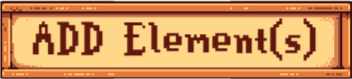
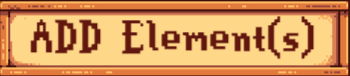
boton add elements bonito

diff --git a/client/stardew-valley/src/app/add-element/add-element.component.html b/client/stardew-valley/src/app/add-element/add-element.component.html
@@ -7,12 +7,12 @@
                 <div class="row mb-3">
                     <div class="col">
                         <input type="file" class="form-control" id="inputJson" name="json" (change)="fileUploaded($event)">
-                        <div *ngIf="fileContent && !wrongFormat">
+                        <div *ngIf="fileContent && !wrongFormat" style="background-color: rgba(255, 255, 255, 0.441);">
                             <pre>{{ fileContent | json }}</pre>
-                            
                         </div>
                     </div>
                 </div>
+                <button style="padding: 0;"><img style="height: 50px;" src="../../assets/add-element-s.png"/></button>
             </div>
         </div>
         <button *ngIf="fileContent && !wrongFormat && !isNotComplete" type="submit" class="btn btn-primary" style="background-color: rgb(231, 143, 172); border-color: rgb(231, 143, 172);">Add element(s)</button>

diff --git a/client/stardew-valley/src/app/add-element/add-element.component.css b/client/stardew-valley/src/app/add-element/add-element.component.css
@@ -14,11 +14,3 @@ h2{
 #title{
     font-size: 10ch;
 }
-
-#btn-add-element{
-    background-image: url("../../assets/add-element-s.png"); 
-    background-size: contain;
-    background-repeat: no-repeat;
-    width: 200px;
-    height: 100px;
-}
